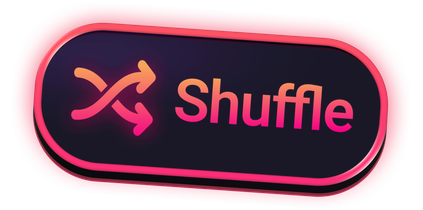
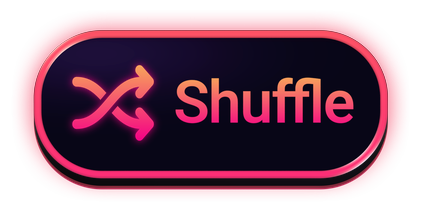
fix(site): Shuffle et Skip droits comme dans l'app, sans poignée de palette, lueurs du fond toujours éteintes aux bords de l'écran

Changed region(s): [[0.0615, 0.0571, 0.922, 0.9429], [0.0922, 0.4286, 0.1229, 0.4571]]

diff --git a/components/Backdrop.tsx b/components/Backdrop.tsx
@@ -2,29 +2,25 @@
  * La nuit de l'app : BackgroundViewStyle.standard, #120D24 puis #1F1445,
  * assombri pour le site.
  *
- * Un seul élément, peint une fois, répété verticalement. Chaque tuile est
- * raccordable : chaque lueur est centrée assez loin des bords pour être
- * éteinte avant la jointure.
- * Aucune lueur ne touche le haut ou le bas d'une tuile, donc aucune ligne
- * nette. Pas de grain : Julien le trouvait pixelisé. Et la nuit est d'une
- * seule teinte, #120d26, aussi celle des bords de Safari (html et
- * theme-color) : un dégradé sombre-clair-sombre répété dessinait des bandes
- * en haut et en bas de l'écran.
+ * La teinte de fond, #120d26, est portée par `html` : c'est aussi celle que
+ * Safari peint, opaque, sous la barre d'état et la barre d'outils. Pour ne
+ * JAMAIS voir de bande en haut ou en bas de l'écran, le fond qui touche ces
+ * barres doit toujours être exactement cette teinte. Les lueurs sont donc
+ * sur un calque fixe et restent au milieu de l'écran : elles sont éteintes
+ * bien avant les bords (au moins 10 % de la hauteur), quel que soit le
+ * défilement. Pas de grain : Julien le trouvait pixelisé.
  */
 export function Backdrop() {
   return (
     <div
       aria-hidden
-      className="pointer-events-none absolute inset-0 -z-10"
+      className="pointer-events-none fixed inset-0 -z-10"
       style={{
-        backgroundColor: "#120d26",
         backgroundImage: [
-          "radial-gradient(ellipse 70% 26% at 50% 34%, rgba(124,58,237,0.13) 0%, rgba(124,58,237,0.05) 45%, transparent 100%)",
-          "radial-gradient(ellipse 46% 18% at 88% 72%, rgba(230,0,110,0.07) 0%, transparent 100%)",
-          "radial-gradient(ellipse 40% 16% at 10% 76%, rgba(61,110,255,0.06) 0%, transparent 100%)",
+          "radial-gradient(ellipse 70% 28% at 50% 40%, rgba(124,58,237,0.13) 0%, rgba(124,58,237,0.05) 45%, transparent 100%)",
+          "radial-gradient(ellipse 46% 20% at 88% 64%, rgba(230,0,110,0.07) 0%, transparent 100%)",
+          "radial-gradient(ellipse 40% 18% at 10% 66%, rgba(61,110,255,0.06) 0%, transparent 100%)",
         ].join(", "),
-        backgroundSize: "100% 220svh",
-        backgroundRepeat: "repeat-y",
       }}
     />
   );

diff --git a/components/b/SceneQuestion.tsx b/components/b/SceneQuestion.tsx
@@ -15,8 +15,9 @@ import { phase, useScene } from "./useScene";
  * d'onglets qui défile (Stan au centre, choisi), fond plein écran au dégradé
  * violet de la série, « 1 sur 12 » et ses 12 segments, le GIF de la question
  * dans son écrin métal, la question en 18 semibold, les quatre cartes satin
- * blanc 147 × 147 de ProfileCard, Shuffle et Skip en relief (les images de
- * l'app), et la poignée de la palette de fond au bord droit. En défilant,
+ * blanc 147 × 147 de ProfileCard, Shuffle et Skip en relief (les calques
+ * droits de l'app : socle, dessus, flèches lumineuses). La poignée de la
+ * palette de fond est laissée de côté : sans intérêt sur le site. En défilant,
  * une carte s'enfonce sous le doigt, puis les vagues de résultat montent.
  *
  * Le seul ajout par rapport à l'app : « Mets les prénoms de tes potes ». Un
@@ -422,20 +423,6 @@ export function SceneQuestion() {
                 <div className="flex-1" />
               </div>
             </div>
-
-            {/* La poignée de la palette de fond, à moitié sortie du bord droit */}
-            <span
-              aria-hidden
-              className="absolute top-1/2 right-[-6px] flex h-[70px] w-[22px] -translate-y-1/2 items-center justify-center overflow-hidden rounded-full"
-              style={{
-                background:
-                  "linear-gradient(180deg, rgba(134,13,255,0.55), rgba(122,13,89,0.55)), rgba(255,255,255,0.12)",
-                boxShadow:
-                  "inset 0 1px 0 rgba(255,255,255,0.45), inset 0 0 0 1px rgba(255,255,255,0.22), -2px 3px 16px rgba(0,0,0,0.22)",
-              }}
-            >
-              <span className="h-[26px] w-[3.5px] rounded-full bg-white/90 shadow-[0_0_3px_rgba(0,0,0,0.25)]" />
-            </span>
 
             <span className="absolute bottom-[14px] left-1/2 h-[5px] w-[130px] -translate-x-1/2 rounded-full bg-white/70" />
           </div>
